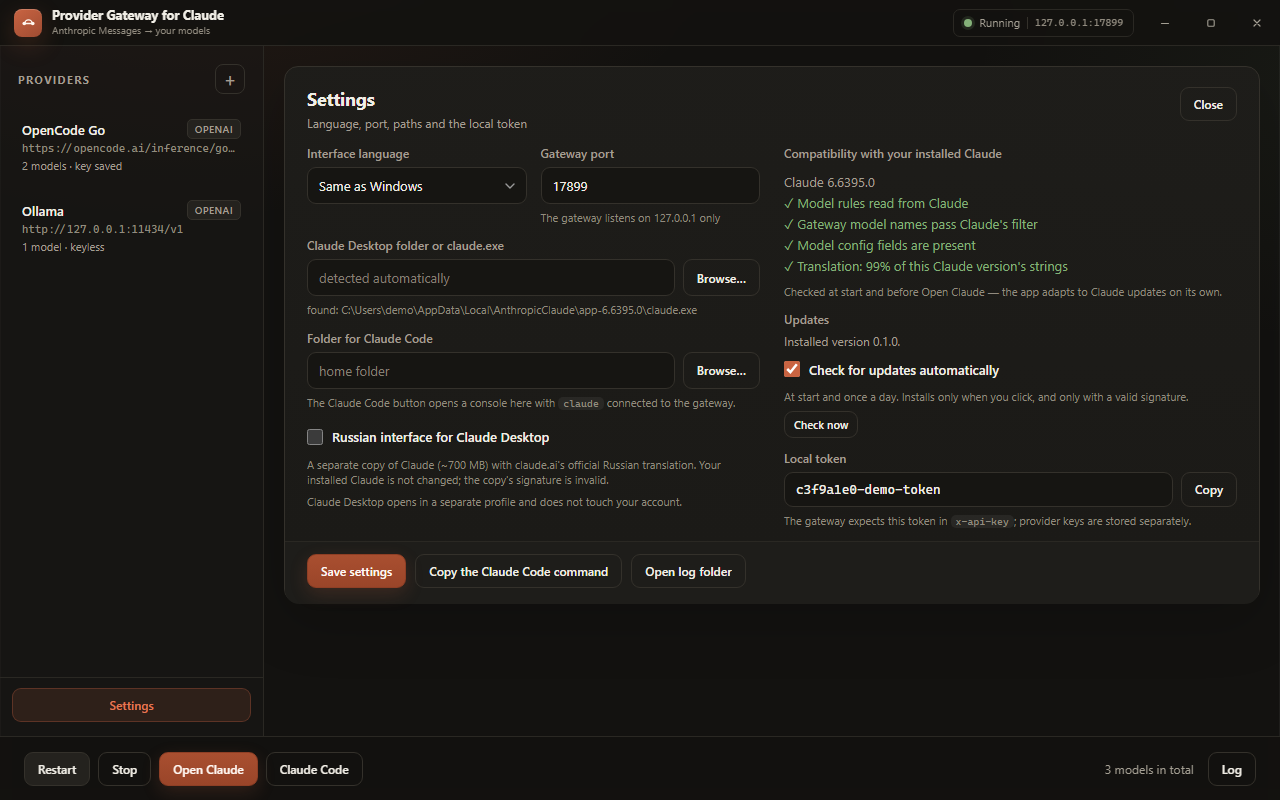
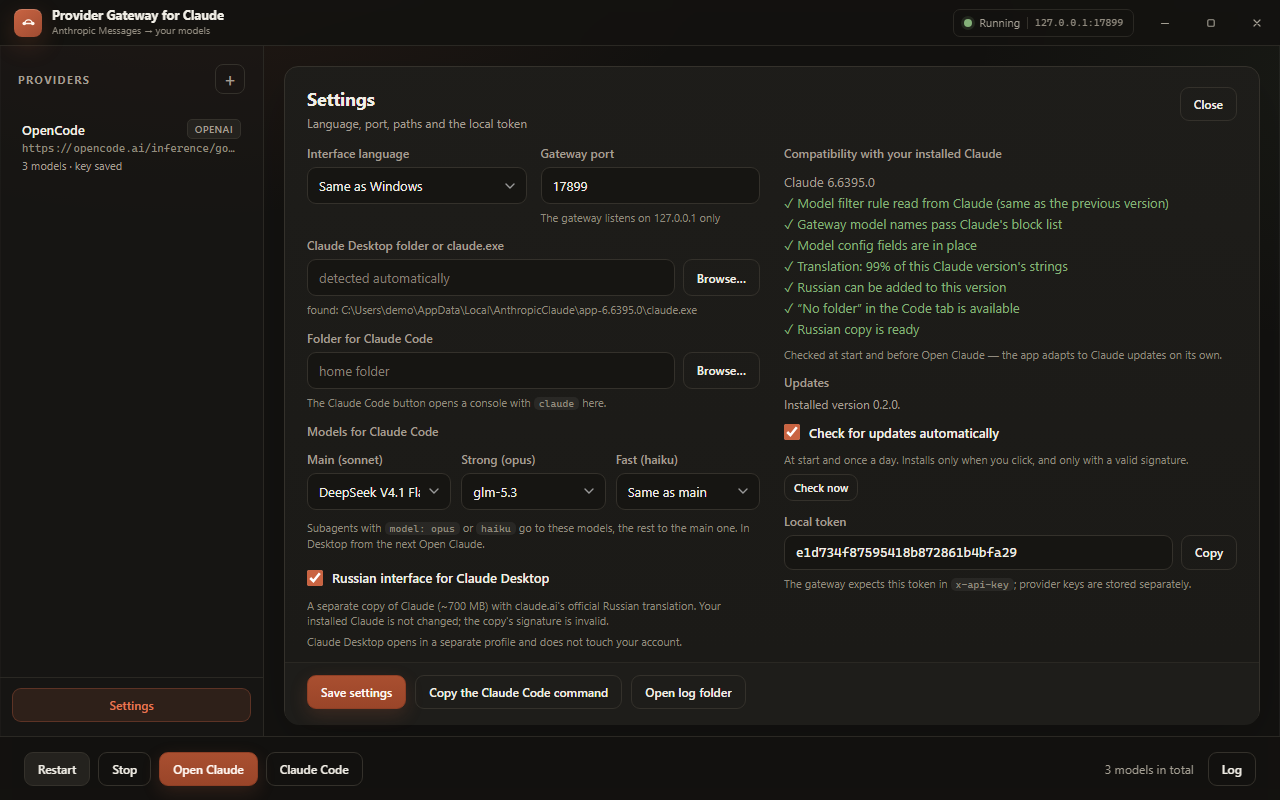
Model roles: the main model is the gateway default, so unassigned roles behave the same in the console and Desktop; set sonnet/opus vars only when chosen; context window by the main model; roles follow a renamed provider; role changes restart the gateway; Explore inherits the main model (docs); sett

diff --git a/crates/ctp-app/ui/i18n.js b/crates/ctp-app/ui/i18n.js
@@ -99,7 +99,7 @@ const STRINGS = {
     "settings.roleFirst": "Первая модель",
     "settings.roleAsMain": "Как основная",
     "settings.roleMissing": "нет: {model}",
-    "settings.rolesHint": "На них работают субагенты в консоли и во вкладке Code (Explore — на opus). Desktop применит со следующего «Открыть Claude».",
+    "settings.rolesHint": "Субагенты с <code>model: opus</code> или <code>haiku</code> пойдут на эти модели, остальные — на основную. В Desktop — со следующего «Открыть Claude».",
     "settings.russian": "Русский интерфейс Claude Desktop",
     "settings.russianHint": "Отдельная копия Claude (~700 МБ) с официальным русским переводом claude.ai. Установленный Claude не меняется; подпись копии недействительна.",
     "settings.russianFileMissing": "Перевод скачается сам при следующем старте или «Открыть Claude» (нужен интернет). Если claude.ai попросит подтвердить, что вы не робот, откроется его окно.",
@@ -278,7 +278,7 @@ const STRINGS = {
     "settings.roleFirst": "First model",
     "settings.roleAsMain": "Same as main",
     "settings.roleMissing": "gone: {model}",
-    "settings.rolesHint": "Subagents use them in the console and the Code tab (Explore uses opus). Desktop applies them from the next Open Claude.",
+    "settings.rolesHint": "Subagents with <code>model: opus</code> or <code>haiku</code> go to these models, the rest to the main one. In Desktop from the next Open Claude.",
     "settings.russian": "Russian interface for Claude Desktop",
     "settings.russianHint": "A separate copy of Claude (~700 MB) with claude.ai's official Russian translation. Your installed Claude is not changed; the copy's signature is invalid.",
     "settings.russianFileMissing": "The translation downloads on the next start or Open Claude (needs internet). If claude.ai asks to confirm you are human, its window opens.",

diff --git a/crates/ctp-app/ui/app.js b/crates/ctp-app/ui/app.js
@@ -924,9 +924,11 @@ async function saveSettings() {
     el.portInput.focus();
     return;
   }
-  // Only a new port stops the gateway; then bring it back if it was running.
+  // A new port or new model roles (the main model is the gateway's default) stop the
+  // gateway; then bring it back if it was running.
   const portChanged = port !== state.config?.port;
-  const wasRunning = portChanged && (starting > 0 || !!state.status?.running);
+  const rolesChanged = ROLES.some(([role, id]) => el[id].value !== roleKey(state.config?.modelRoles?.[role]));
+  const wasRunning = (portChanged || rolesChanged) && (starting > 0 || !!state.status?.running);
   try {
     state.config = await invoke("save_settings", {
       input: {

diff --git a/crates/ctp-app/src/claude.rs b/crates/ctp-app/src/claude.rs
@@ -138,7 +138,10 @@ pub fn role_aliases(config: &Config) -> RoleAliases {
 }
 
 /// Окружение Claude Code через шлюз: что убрать и что задать. Основная модель — роль
-/// `sonnet` или первая модель шлюза; `opus` и `haiku` без выбора — как основная.
+/// `sonnet` или первая модель шлюза. Алиасы `sonnet`/`opus` задаются, только если роль
+/// выбрана: иначе Claude Code шлёт свой встроенный ID, и шлюз отдаёт его настоящей
+/// модели Claude (если она есть у провайдера) или модели по умолчанию — основной
+/// (`store::build_file`). Так же ведёт себя Desktop с невыбранной ролью.
 pub fn code_env(
     status: &UiStatus,
     roles: &RoleAliases,
@@ -156,13 +159,14 @@ pub fn code_env(
             .as_ref()
             .and_then(|alias| status.models.iter().find(|m| &m.alias == alias))
     };
-    let main = pick(&roles.sonnet).unwrap_or(first);
-    let opus = pick(&roles.opus).unwrap_or(main);
+    let sonnet = pick(&roles.sonnet);
+    let main = sonnet.unwrap_or(first);
+    let opus = pick(&roles.opus);
     let haiku = pick(&roles.haiku).unwrap_or(main);
     // Имя шлюза Claude Code не знает и считает окно 1M — у модели без `[1m]` сжатие
     // разговора началось бы слишком поздно. Как в Claude Desktop: без `[1m]` — 200K.
-    // Окно одно на сессию, а субагенты ходят и в opus/haiku: 1M — только если у всех.
-    let window = if [main, opus, haiku].iter().all(|m| m.supports_1m) {
+    // По основной модели: на ней сессия и наследующие её субагенты (Explore, Plan).
+    let window = if main.supports_1m {
         "1000000"
     } else {
         "200000"
@@ -173,25 +177,35 @@ pub fn code_env(
             HOST_ENV_PREFIXES.iter().any(|p| upper.starts_with(p))
         })
         .collect();
-    let set = vec![
+    let mut set: Vec<(String, String)> = vec![
         (
             "ANTHROPIC_BASE_URL".into(),
             format!("http://127.0.0.1:{}", status.port),
         ),
         ("ANTHROPIC_AUTH_TOKEN".into(), status.token.clone()),
         ("ANTHROPIC_MODEL".into(), main.alias.clone()),
-        ("ANTHROPIC_DEFAULT_SONNET_MODEL".into(), main.alias.clone()),
-        ("ANTHROPIC_DEFAULT_OPUS_MODEL".into(), opus.alias.clone()),
+    ];
+    if let Some(sonnet) = sonnet {
+        set.push((
+            "ANTHROPIC_DEFAULT_SONNET_MODEL".into(),
+            sonnet.alias.clone(),
+        ));
+    }
+    if let Some(opus) = opus {
+        set.push(("ANTHROPIC_DEFAULT_OPUS_MODEL".into(), opus.alias.clone()));
+    }
+    set.extend([
+        // haiku задавалась и до ролей: фоновые мелочи — на основной, если быстрой нет.
         ("ANTHROPIC_DEFAULT_HAIKU_MODEL".into(), haiku.alias.clone()),
         // Устаревшее имя той же роли: его ещё читают старые версии Claude Code.
         ("ANTHROPIC_SMALL_FAST_MODEL".into(), haiku.alias.clone()),
         ("CLAUDE_CODE_MAX_CONTEXT_TOKENS".into(), window.into()),
-    ];
+    ]);
     Ok((remove, set))
 }
 
 /// Команда PowerShell для своего терминала («Скопировать команду») — те же переменные,
-/// что у кнопки «Claude Code».
+/// что задаёт кнопка «Claude Code» (чужие переменные своего терминала человек видит сам).
 pub fn code_command(status: &UiStatus, roles: &RoleAliases) -> Result<String, String> {
     let (_, set) = code_env(status, roles, std::iter::empty())?;
     let mut lines: Vec<String> = set
@@ -637,13 +651,14 @@ mod tests {
         assert_eq!(get("ANTHROPIC_BASE_URL"), Some("http://127.0.0.1:17899"));
         assert_eq!(get("ANTHROPIC_AUTH_TOKEN"), Some("tok"));
         assert_eq!(get("ANTHROPIC_MODEL"), Some("claude-p-claude-p-1"));
-        // Без выбора ролей все роли — первая модель, как до появления настройки.
-        for role in ["SONNET", "OPUS", "HAIKU"] {
-            assert_eq!(
-                get(&format!("ANTHROPIC_DEFAULT_{role}_MODEL")),
-                Some("claude-p-claude-p-1")
-            );
-        }
+        // Без выбора ролей — как до появления настройки: haiku на первой модели, а
+        // sonnet/opus не задаются (встроенный ID → настоящая модель Claude или основная).
+        assert_eq!(
+            get("ANTHROPIC_DEFAULT_HAIKU_MODEL"),
+            Some("claude-p-claude-p-1")
+        );
+        assert!(get("ANTHROPIC_DEFAULT_SONNET_MODEL").is_none());
+        assert!(get("ANTHROPIC_DEFAULT_OPUS_MODEL").is_none());
         assert!(get("ANTHROPIC_API_KEY").is_none());
         assert_eq!(get("CLAUDE_CODE_MAX_CONTEXT_TOKENS"), Some("200000"));
         let mut big = status.clone();
@@ -811,7 +826,7 @@ mod tests {
             Some(fast.alias.clone())
         );
         assert_eq!(get("ANTHROPIC_SMALL_FAST_MODEL"), Some(fast.alias.clone()));
-        // Основная без 1M — окно 200K для всей сессии, даже если у других 1M.
+        // Окно — по основной модели (без 1M), даже если у быстрой и сильной 1M.
         assert_eq!(get("CLAUDE_CODE_MAX_CONTEXT_TOKENS"), Some("200000".into()));
 
         // Только opus выбран: основная и haiku — первая модель.
@@ -830,6 +845,7 @@ mod tests {
             get("ANTHROPIC_DEFAULT_OPUS_MODEL"),
             Some(strong.alias.clone())
         );
+        assert!(get("ANTHROPIC_DEFAULT_SONNET_MODEL").is_none());
         assert_eq!(
             get("CLAUDE_CODE_MAX_CONTEXT_TOKENS"),
             Some("1000000".into())

diff --git a/crates/ctp-app/src/store.rs b/crates/ctp-app/src/store.rs
@@ -214,6 +214,17 @@ pub fn apply_provider(
         ));
     }
     let mut next = config.clone();
+    // Переименованный провайдер уносит с собой выбранные на его модели роли.
+    if let Some(old) = original.filter(|old| *old != row.id) {
+        let roles = &mut next.model_roles;
+        for role in [&mut roles.sonnet, &mut roles.opus, &mut roles.haiku]
+            .into_iter()
+            .flatten()
+            .filter(|role| role.provider == old)
+        {
+            role.provider = row.id.clone();
+        }
+    }
     let slot = original.and_then(|o| next.providers.iter_mut().find(|p| p.id == o));
     match slot {
         Some(existing) => *existing = row,
@@ -340,9 +351,14 @@ pub fn build_file(config: &Config) -> Result<ProvidersFile, String> {
             "No providers with models"
         ));
     }
-    let default = providers
-        .first()
-        .and_then(|provider| provider.models.first().map(|(alias, _)| alias.clone()));
+    // Модель для запросов с незнакомым именем — основная (роль sonnet), иначе первая.
+    // Так невыбранные роли Claude Code (его встроенные ID opus/haiku) и в консоли, и во
+    // вкладке Code у Desktop попадают на основную модель.
+    let default = role_alias(config, config.model_roles.sonnet.as_ref()).or_else(|| {
+        providers
+            .first()
+            .and_then(|provider| provider.models.first().map(|(alias, _)| alias.clone()))
+    });
     Ok(ProvidersFile { default, providers })
 }
 
@@ -495,7 +511,20 @@ mod tests {
         assert_eq!(file.providers.len(), 1);
         assert_eq!(file.providers[0].models.len(), 2);
         assert_eq!(file.providers[0].models[1].1, "qwen3:8b");
-        assert_eq!(file.default.unwrap(), desktop_alias("openai", "gpt-5.2"));
+        assert_eq!(
+            file.default.as_deref(),
+            Some(desktop_alias("openai", "gpt-5.2").as_str())
+        );
+        // Выбрана основная модель — она и модель по умолчанию для незнакомых имён.
+        let mut with_main = config.clone();
+        with_main.model_roles.sonnet = Some(crate::model::ModelRef {
+            provider: "openai".into(),
+            model: "qwen3:8b".into(),
+        });
+        assert_eq!(
+            build_file(&with_main).unwrap().default,
+            Some(desktop_alias("openai", "qwen3:8b"))
+        );
     }
 
     #[test]
@@ -604,9 +633,19 @@ mod tests {
 
         let mut renamed = row();
         renamed.id = "openai2".into();
-        let next = apply_provider(&added, renamed, Some("openai")).unwrap();
+        let mut with_role = added.clone();
+        with_role.model_roles.opus = Some(crate::model::ModelRef {
+            provider: "openai".into(),
+            model: "gpt-5.2".into(),
+        });
+        let next = apply_provider(&with_role, renamed, Some("openai")).unwrap();
         assert_eq!(next.providers[0].id, "openai2", "позиция сохраняется");
         assert_eq!(next.providers.len(), 2);
+        assert_eq!(
+            next.model_roles.opus.as_ref().map(|r| r.provider.as_str()),
+            Some("openai2"),
+            "роль переезжает вместе с провайдером"
+        );
 
         let mut onto = row();
         onto.id = "deepseek".into();

diff --git a/crates/ctp-app/src/model.rs b/crates/ctp-app/src/model.rs
@@ -40,7 +40,7 @@ pub struct ModelRef {
 }
 
 /// Роли моделей в Claude Code. `sonnet` — основная (сессия и алиас `sonnet`), `opus` —
-/// сильная (алиас `opus`, через шлюз на ней же встроенный Explore), `haiku` — быстрая
+/// сильная (алиас `opus`: субагенты с `model: opus`), `haiku` — быстрая
 /// (алиас `haiku` и фоновые мелочи). `None` — как раньше: первая модель шлюза.
 #[derive(Clone, Debug, Default, PartialEq, Eq, Serialize, Deserialize)]
 pub struct ModelRoles {

diff --git a/crates/ctp-app/src/commands.rs b/crates/ctp-app/src/commands.rs
@@ -188,6 +188,8 @@ pub fn save_settings(
         opus: keep(input.model_roles.opus),
         haiku: keep(input.model_roles.haiku),
     };
+    // Основная модель — модель шлюза по умолчанию (store::build_file): нужен перезапуск.
+    let port_changed = port_changed || next.model_roles != config.model_roles;
     store::save(&shared.config_dir, &next).map_err(|exc| exc.to_string())?;
     *config = next;
     crate::i18n::apply(config.language.as_deref());

diff --git a/docs/releases/v0.2.0.md b/docs/releases/v0.2.0.md
@@ -3,11 +3,11 @@ Different gateway models for Claude Code's roles and subagents.
 ### New
 
 - **Models for Claude Code** (Settings). Claude Code asks for models by role: `sonnet`, `opus`, `haiku`. Now each role can run on its own gateway model:
-  - **main** (`sonnet`) — the session model;
-  - **strong** (`opus`) — through a gateway, the built-in Explore subagent runs on it;
-  - **fast** (`haiku`) — background tasks.
+  - **main** (`sonnet`) — the console session, subagents that inherit the model (Explore, Plan) and every role left unassigned;
+  - **strong** (`opus`) — subagents with `model: opus`;
+  - **fast** (`haiku`) — subagents with `model: haiku` and background tasks.
 
-  The choice applies to the Claude Code console, the copied command and the Code tab of Claude Desktop, from the next **Open Claude**. Nothing chosen means the old behaviour: everything on the first model.
+  The choice applies to the Claude Code console, the copied command and the Code tab of Claude Desktop, from the next **Open Claude**. Nothing chosen means the old behaviour.
 - **Copy the Claude Code command** now gives exactly what the Claude Code button sets, context window included.
 
 The app updates itself from this page; or download the installer below.
@@ -18,11 +18,11 @@ The app updates itself from this page; or download the installer below.
 Разные модели шлюза для ролей и субагентов Claude Code.
 
 - **Модели для Claude Code** (Настройки). Claude Code просит модели по ролям: `sonnet`, `opus`, `haiku`. Теперь у каждой роли может быть своя модель шлюза:
-  - **основная** (`sonnet`) — модель сессии;
-  - **сильная** (`opus`) — через шлюз на ней работает встроенный субагент Explore;
-  - **быстрая** (`haiku`) — фоновые мелочи.
+  - **основная** (`sonnet`) — сессия в консоли, субагенты, которые наследуют модель (Explore, Plan), и все невыбранные роли;
+  - **сильная** (`opus`) — субагенты с `model: opus`;
+  - **быстрая** (`haiku`) — субагенты с `model: haiku` и фоновые мелочи.
 
-  Выбор действует в консоли Claude Code, в скопированной команде и во вкладке Code у Claude Desktop — со следующего «Открыть Claude». Если ничего не выбрано, всё как раньше: на первой модели.
+  Выбор действует в консоли Claude Code, в скопированной команде и во вкладке Code у Claude Desktop — со следующего «Открыть Claude». Если ничего не выбрано, всё как раньше.
 - **Скопировать команду для Claude Code** теперь даёт ровно то же, что задаёт кнопка Claude Code, вместе с окном контекста.
 
 Приложение обновится само с этой страницы, или скачайте установщик ниже.

diff --git a/README.ru.md b/README.ru.md
@@ -84,11 +84,11 @@ Get-FileHash .\Provider-Gateway-for-Claude_*_x64-setup.exe -Algorithm SHA256
 
 ### Разные модели для субагентов
 
-Claude Code просит модели по ролям: `sonnet`, `opus` и `haiku`. Настройки → **Модели для Claude Code** назначают каждой роли модель шлюза: основную (`sonnet`, на ней же сессия), сильную (`opus`; через шлюз на ней работает встроенный субагент Explore) и быструю (`haiku`, фоновые мелочи). Выбор действует в консоли кнопки **Claude Code**, в скопированной команде и во вкладке Code у Claude Desktop (со следующего **«Открыть Claude»**). Ещё субагент может прямо указать любую модель шлюза в поле `model:`, а `/model <имя>` переключает сессию.
+Claude Code просит модели по ролям: `sonnet`, `opus` и `haiku`. Настройки → **Модели для Claude Code** назначают каждой роли модель шлюза: основную (`sonnet`: сессия в консоли, субагенты, которые наследуют модель, вроде Explore и Plan, и все невыбранные роли), сильную (`opus`, для субагентов с `model: opus`) и быструю (`haiku`, для субагентов с `model: haiku` и фоновых мелочей). Выбор действует в консоли кнопки **Claude Code**, в скопированной команде и во вкладке Code у Claude Desktop (со следующего **«Открыть Claude»**). Ещё субагент может прямо указать любую модель шлюза в поле `model:`, а `/model <имя>` переключает сессию.
 
 ### Claude Code вручную
 
-Настройки → **Скопировать команду для Claude Code** кладёт в буфер команду PowerShell с адресом шлюза, токеном и ролями моделей — то же, что делает кнопка **Claude Code**, — если удобнее свой терминал.
+Настройки → **Скопировать команду для Claude Code** кладёт в буфер команду PowerShell с теми же переменными, что задаёт кнопка **Claude Code** (адрес шлюза, токен, роли моделей), — если удобнее свой терминал.
 
 ## Приватность и сеть
 

diff --git a/README.md b/README.md
@@ -84,11 +84,11 @@ Set **Max reasoning level** on a provider and Claude offers a level picker for i
 
 ### Different models for subagents
 
-Claude Code asks for models by role: `sonnet`, `opus` and `haiku`. Settings → **Models for Claude Code** picks a gateway model for each: main (`sonnet`, also the session model), strong (`opus`; through a gateway the built-in Explore subagent runs on it) and fast (`haiku`, background tasks). It applies to the **Claude Code** console, the copied command and the Code tab of Claude Desktop (from the next **Open Claude**). A subagent can also name any gateway model directly in its `model:` field, and `/model <name>` switches the session.
+Claude Code asks for models by role: `sonnet`, `opus` and `haiku`. Settings → **Models for Claude Code** picks a gateway model for each: main (`sonnet`: the console session, subagents that inherit the model such as Explore and Plan, and every role left unassigned), strong (`opus`, for subagents with `model: opus`) and fast (`haiku`, for subagents with `model: haiku` and background tasks). It applies to the **Claude Code** console, the copied command and the Code tab of Claude Desktop (from the next **Open Claude**). A subagent can also name any gateway model directly in its `model:` field, and `/model <name>` switches the session.
 
 ### Claude Code by hand
 
-Settings → **Copy the Claude Code command** puts a PowerShell snippet on the clipboard with the gateway address, token and model roles, the same as the **Claude Code** button, if you prefer your own terminal.
+Settings → **Copy the Claude Code command** puts a PowerShell snippet on the clipboard with the same variables the **Claude Code** button sets (gateway address, token, model roles), if you prefer your own terminal.
 
 ## Privacy and network
 

diff --git a/CHANGELOG.md b/CHANGELOG.md
@@ -6,7 +6,7 @@ All notable changes to this project are listed here. The format follows [Keep a 
 
 ### Added
 
-- **Models for Claude Code** in Settings: a gateway model for each role Claude Code asks for — main (`sonnet`), strong (`opus`, also the built-in Explore subagent through a gateway) and fast (`haiku`). Applies to the Claude Code console, the copied command and the Code tab of Claude Desktop (`anthropicFamilyTier` in its model list).
+- **Models for Claude Code** in Settings: a gateway model for each role Claude Code asks for — main (`sonnet`; also the gateway's model for unknown names, so unassigned roles and inheriting subagents such as Explore land on it), strong (`opus`) and fast (`haiku`). Applies to the Claude Code console, the copied command and the Code tab of Claude Desktop (`anthropicFamilyTier` in its model list).
 
 ### Changed
 
